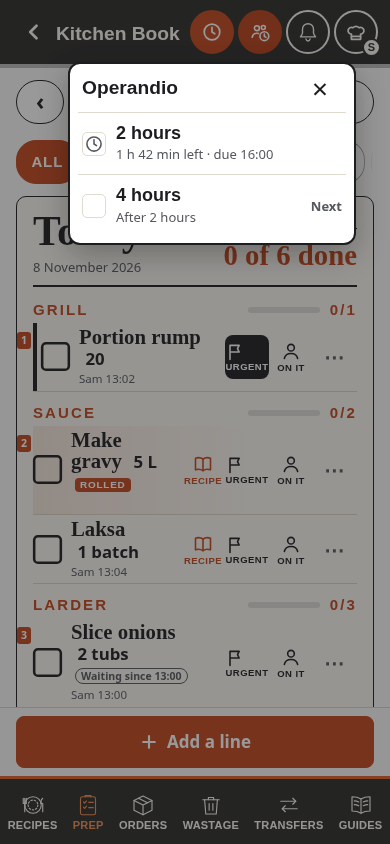
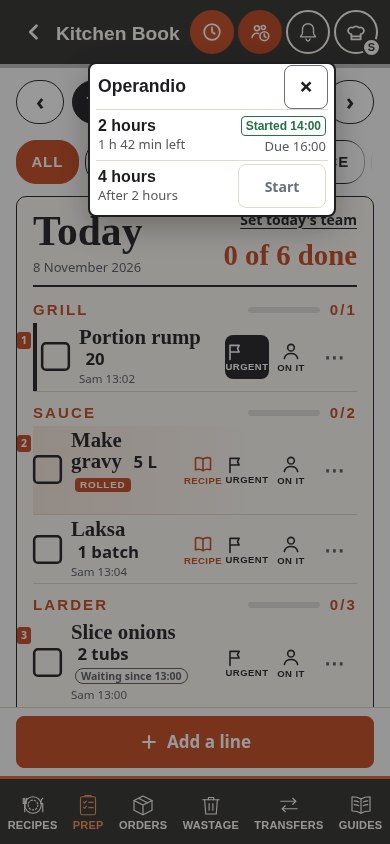
Clarify actions and status in the smaller Operandio menu

Changed region(s): [[0.1538, 0.0616, 0.9231, 0.3081]]

diff --git a/docs/operandio-cooling-options/preview.js b/docs/operandio-cooling-options/preview.js
@@ -8,6 +8,14 @@
   const check = '<span class="oc-check" aria-hidden="true">✓</span>';
   const labels = { idle:'Ready to start',first:'Stage 1 running',first_due:'Waiting for the next tick',second:'Stage 2 running',second_due:'Both timers finished' };
   let returnFocus = null;
+  const feedbackHours=stage==='first_due'?4:2;
+  let pending=q.get('feedback')==='pending'?feedbackHours:0;
+  let failedStage=q.get('feedback')==='error'?feedbackHours:0;
+  let justStarted=0;
+  let attempts=0;
+  const announce=document.createElement('div');
+  announce.className='oc-live';announce.setAttribute('role','status');announce.setAttribute('aria-live','polite');
+  document.body.appendChild(announce);
   document.title = 'Operandio cooling: design ' + design.toUpperCase();
   document.documentElement.classList.add('oc-demo');
   document.querySelectorAll('a').forEach(a => a.addEventListener('click', e => e.preventDefault()));
@@ -24,20 +32,55 @@
       (stage==='idle'?action('start1','Start 2 hours')+'<p class="oc-caption">Anyone in the kitchen can start it.</p>':stage==='first_due'?action('start2','Start 4 hours')+'<p class="oc-caption">Starts the next stage for everyone.</p>':stage==='second_due'?'<p class="oc-caption">Both elapsed-time pings have been sent.</p>'+action('reset','Start another batch',true):'<p class="oc-caption">Everyone sees the same timer. A second tick cannot restart it.</p>')+'</div>';
   }
   function close() { document.querySelector('.oc-modal')?.remove();document.documentElement.classList.remove('oc-sheet-open');document.querySelector('.oc-clock')?.setAttribute('aria-expanded','false');if(returnFocus?.isConnected)returnFocus.focus(); }
-  function openMenu() {
-    close();returnFocus=document.querySelector('.oc-clock');
+  function menuContent() {
     const firstDone=['first_due','second','second_due'].includes(stage);
-    const secondDone=stage==='second_due';
-    function row(hours,enabled,running,done,caption) {
-      return '<button type="button" class="oc-menu-row '+(enabled?'is-ready':'')+'" data-oc="start'+(hours===2?'1':'2')+'" '+(enabled?'':'disabled')+'><span class="oc-menu-tick" aria-hidden="true">'+(done?'✓':running?clock:'')+'</span><span class="oc-menu-label"><b>'+hours+' hours</b><small>'+caption+'</small></span><span class="oc-menu-state">'+(enabled?'Start':running?'':done?'Done':'Next')+'</span></button>';
+    function row(hours,ready,running,done,caption) {
+      const busy=pending===hours,error=failedStage===hours;
+      const id=hours===2?'1':'2';
+      const text=busy?'Starting…':error?'Try again':'Start';
+      const right=running?'<span class="oc-menu-status"><span class="lk-stamp">Started '+(hours===2?'14:00':'16:10')+'</span><small>Due '+(hours===2?'16:00':'20:10')+'</small></span>':done?'<span class="oc-menu-done">✓ Finished</span>':'<button type="button" class="btn '+(ready||busy?'dark ':'')+'oc-menu-start" data-oc="start'+id+'" aria-label="'+(busy?'Starting':error?'Try again: start':'Start')+' Operandio '+hours+'-hour timer" aria-describedby="oc-detail-'+id+'" '+(ready&&!pending?'':'disabled')+(busy?' aria-busy="true"':'')+'>'+text+'</button>';
+      return '<div class="oc-menu-entry" data-timer="'+hours+'" tabindex="-1"><div class="oc-menu-row"><span class="oc-menu-label"><b>'+hours+' hours</b><small id="oc-detail-'+id+'">'+(busy?'Waiting for confirmation':error?'Not started':caption)+'</small></span>'+right+'</div>'+(error?'<p class="p-err oc-menu-error" role="alert">Couldn’t start Operandio '+hours+'-hour timer.</p>':'')+'</div>';
     }
-    const wrap=document.createElement('div');wrap.className='wm-wrap oc-modal';
-    wrap.innerHTML='<div class="wm-bg" data-oc="close"></div><section class="oc-dropdown" role="dialog" aria-modal="true" aria-labelledby="oc-title" tabindex="-1"><header class="oc-menu-head"><h2 id="oc-title">Operandio</h2><button type="button" data-oc="close" class="oc-menu-close" aria-label="Close cooling timers">×</button></header>'+row(2,stage==='idle',stage==='first',firstDone,stage==='idle'?'Tick to start':stage==='first'?'1 h 42 min left · due 16:00':'Finished at 16:00')+row(4,stage==='first_due',stage==='second',secondDone,stage==='first_due'?'Tick to start':stage==='second'?'3 h 50 min left · due 20:10':secondDone?'Finished at 20:10':'After 2 hours')+(secondDone?'<footer class="oc-menu-foot">'+action('reset','Start another batch',true)+'</footer>':'')+'</section>';
-    document.body.appendChild(wrap);document.documentElement.classList.add('oc-sheet-open');
-    const chip=document.querySelector('.oc-clock'),rect=chip.getBoundingClientRect(),menu=wrap.querySelector('.oc-dropdown');
+    return row(2,stage==='idle',stage==='first',firstDone,stage==='idle'?'':stage==='first'?(justStarted===2?'2 h left':'1 h 42 min left'):'Finished at 16:00')+row(4,stage==='first_due',stage==='second',stage==='second_due',stage==='first_due'?'Ready to start':stage==='second'?(justStarted===4?'4 h left':'3 h 50 min left'):stage==='second_due'?'Finished at 20:10':'After 2 hours')+(stage==='second_due'?'<footer class="oc-menu-foot">'+action('reset','Start another batch',true)+'</footer>':'');
+  }
+  function placeMenu() {
+    const chip=document.querySelector('.oc-clock'),menu=document.querySelector('.oc-dropdown');
+    if(!menu)return;
+    const rect=chip.getBoundingClientRect();
     menu.style.top=Math.max(8,Math.min(rect.bottom+8,innerHeight-menu.offsetHeight-8))+'px';
     menu.style.left=Math.max(8,Math.min(innerWidth-menu.offsetWidth-8,rect.left+rect.width/2-menu.offsetWidth/2))+'px';
-    chip.setAttribute('aria-expanded','true');menu.focus();
+  }
+  function openMenu() {
+    close();returnFocus=document.querySelector('.oc-clock');
+    const wrap=document.createElement('div');wrap.className='wm-wrap oc-modal';
+    wrap.innerHTML='<div class="wm-bg" data-oc="close"></div><section class="oc-dropdown" role="dialog" aria-modal="true" aria-labelledby="oc-title" tabindex="-1"><header class="oc-menu-head"><h2 id="oc-title">Operandio</h2><button type="button" data-oc="close" class="btn oc-menu-close" aria-label="Close cooling timers">×</button></header><div class="oc-menu-content">'+menuContent()+'</div></section>';
+    document.body.appendChild(wrap);document.documentElement.classList.add('oc-sheet-open');
+    placeMenu();document.querySelector('.oc-clock').setAttribute('aria-expanded','true');wrap.querySelector('.oc-dropdown').focus();
+  }
+  function startPreview(hours) {
+    if(pending||(hours===2?stage!=='idle':stage!=='first_due'))return;
+    if(!document.querySelector('.oc-dropdown'))openMenu();
+    pending=hours;failedStage=0;attempts++;
+    const entry=document.querySelector('[data-timer="'+hours+'"]'),button=entry.querySelector('button');
+    // Update the existing button immediately. The delayed result is a local preview, never a server response.
+    button.textContent='Starting…';button.disabled=true;button.setAttribute('aria-busy','true');button.setAttribute('aria-label','Starting Operandio '+hours+'-hour timer');
+    entry.querySelector('small').textContent='Waiting for confirmation';entry.querySelector('.oc-menu-error')?.remove();
+    announce.textContent='Starting Operandio '+hours+'-hour timer. Waiting for confirmation.';
+    placeMenu();
+    if(q.get('result')==='hold')return;
+    setTimeout(()=>{
+      pending=0;
+      const error=q.get('result')==='fail'&&attempts===1;
+      if(error)failedStage=hours;
+      else{stage=hours===2?'first':'second';justStarted=hours;paintCard();}
+      const menu=document.querySelector('.oc-menu-content');
+      if(menu){
+        const hadFocus=menu.contains(document.activeElement);
+        menu.innerHTML=menuContent();placeMenu();
+        if(hadFocus)menu.querySelector(error?'[data-timer="'+hours+'"] button':'[data-timer="'+hours+'"]')?.focus({preventScroll:true});
+      }
+      announce.textContent=error?'Couldn’t start Operandio '+hours+'-hour timer. Try again.':'Started Operandio '+hours+'-hour timer. Due '+(hours===2?'16:00.':'20:10.');
+    },700);
   }
   function open(kind) {
     if(design==='d'&&kind!=='ping')return openMenu();
@@ -60,10 +103,11 @@
   paintCard();
   document.addEventListener('click',e=>{const a=e.target.closest('[data-oc]')?.dataset.oc;if(!a)return;
     if(a==='close')return close();if(a==='open')return open(design!=='d'&&stage.endsWith('due')?'ping':'timer');
-    if(a==='start1'&&stage==='idle'){stage='first';paintCard();if(design==='b')close();else open('timer');}
-    if(a==='start2'&&stage==='first_due'){stage='second';paintCard();if(design==='b')close();else open('timer');}
-    if(a==='reset'){stage='idle';paintCard();open('timer');}
+    if(a==='start1'&&stage==='idle'){if(design==='d')return startPreview(2);stage='first';paintCard();if(design==='b')close();else open('timer');}
+    if(a==='start2'&&stage==='first_due'){if(design==='d')return startPreview(4);stage='second';paintCard();if(design==='b')close();else open('timer');}
+    if(a==='reset'){pending=0;failedStage=0;justStarted=0;stage='idle';paintCard();open('timer');}
   });
-  document.addEventListener('keydown',e=>{const dialog=document.querySelector('.oc-modal');if(!dialog)return;if(e.key==='Escape'){e.preventDefault();close();}if(e.key==='Tab'){const f=[...dialog.querySelectorAll('button:not(:disabled)')];const first=f[0],last=f.at(-1);if(e.shiftKey&&(document.activeElement===first||document.activeElement===dialog.querySelector('[role=dialog]'))){e.preventDefault();last.focus();}else if(!e.shiftKey&&(document.activeElement===last||document.activeElement===dialog.querySelector('[role=dialog]'))){e.preventDefault();first.focus();}}});
+  document.addEventListener('keydown',e=>{const dialog=document.querySelector('.oc-modal');if(!dialog)return;if(e.key==='Escape'){e.preventDefault();close();}if(e.key==='Tab'){const f=[...dialog.querySelectorAll('button:not(:disabled)')];const first=f[0],last=f.at(-1);if(e.shiftKey&&(document.activeElement===first||!f.includes(document.activeElement))){e.preventDefault();last.focus();}else if(!e.shiftKey&&(document.activeElement===last||!f.includes(document.activeElement))){e.preventDefault();first.focus();}}});
+  window.addEventListener('resize',placeMenu);
   if(stage.endsWith('due')&&(design!=='d'||q.get('view')==='ping'))open('ping');else if(q.get('open')!=='0'&&design!=='b')open('timer');
 })();

diff --git a/docs/operandio-cooling-options/index.html b/docs/operandio-cooling-options/index.html
@@ -2,6 +2,6 @@
 <html lang="en-AU"><head><meta charset="utf-8"><meta name="viewport" content="width=device-width,initial-scale=1"><title>Operandio cooling: clock dropdown</title><link href="https://fonts.googleapis.com/css2?family=Barlow:wght@400;600;700&family=Barlow+Condensed:wght@700&display=swap" rel="stylesheet"><link rel="stylesheet" href="compare.css"></head>
 <body><main>
 <header class="intro"><p class="eyebrow">LEICHHARDT KITCHEN BOOK · SELECTED DESIGN</p><h1>A small clock. Two cooling timers.</h1><p class="lead">Operandio opens as a compact dropdown, with the same cream, charcoal and orange as the chef hat menu.</p></header>
-<nav class="states" aria-label="Preview stage"><span>Try it</span><button data-stage="idle" aria-pressed="true">Ready to start</button><button data-stage="first">2 hours running</button><button data-stage="first_due">4 hours available</button><button data-stage="second">4 hours running</button><button data-stage="second_due">Both finished</button><button data-stage="first_due" data-view="ping">2-hour ping</button><button data-stage="second_due" data-view="ping">4-hour ping</button></nav>
-<section class="chosen-layout"><iframe title="Selected Operandio clock dropdown interactive preview" data-design="d" src="preview.html?design=d&stage=idle"></iframe><div class="chosen-copy"><h2>One tick at a time.</h2><ol><li><b>Tick 2 hours.</b> Anyone in the kitchen can start it. Everyone sees the same countdown.</li><li><b>The first timer ends.</b> Everyone gets “Operandio batch cooling time 2 hours is done.” The 4-hour row becomes available.</li><li><b>Someone ticks 4 hours.</b> A further four hours starts from that tick. It does not start automatically.</li><li><b>The second timer ends.</b> Everyone gets “Operandio batch cooling time 4 hours is done.”</li></ol><h2>When the app is closed.</h2><p>The chosen design includes a timer saved on the server and a phone notification when each stage ends. Reopening the app shows the same deadline.</p><p>Each device needs notifications enabled. iPhone and iPad need the app added to the Home Screen. Phone settings and connectivity can delay or silence notifications.</p><p class="note">Clickable preview only. Times and people are examples. No real timer, account, notification permission or message is used. Background delivery still needs a server implementation and deployment. The recommended Firebase task queue requires a separate change from the recorded free-plan choice to billing-enabled Firebase; no plan has been changed.</p><p><a href="preview.html?design=d&stage=idle">Open the dropdown preview full size ↗</a></p><p><a href="comparison.html">Original three design ideas</a> · <a href="brief.md">Decision and checks</a></p></div></section>
+<nav class="states" aria-label="Preview stage"><span>Try it</span><button data-stage="idle" aria-pressed="true">Ready to start</button><button data-stage="idle" data-feedback="pending">Starting</button><button data-stage="idle" data-feedback="error">Couldn’t start</button><button data-stage="first">2 hours running</button><button data-stage="first_due">4 hours available</button><button data-stage="second">4 hours running</button><button data-stage="second_due">Both finished</button><button data-stage="first_due" data-view="ping">2-hour ping</button><button data-stage="second_due" data-view="ping">4-hour ping</button></nav>
+<section class="chosen-layout"><iframe title="Selected Operandio clock dropdown interactive preview" data-design="d" src="preview.html?design=d&stage=idle"></iframe><div class="chosen-copy"><h2>One tick at a time.</h2><ol><li><b>Tick 2 hours.</b> Anyone in the kitchen can start it. Everyone sees the same countdown.</li><li><b>The first timer ends.</b> Everyone gets “Operandio batch cooling time 2 hours is done.” The 4-hour row becomes available.</li><li><b>Someone ticks 4 hours.</b> A further four hours starts from that tick. It does not start automatically.</li><li><b>The second timer ends.</b> Everyone gets “Operandio batch cooling time 4 hours is done.”</li></ol><h2>When the app is closed.</h2><p>The chosen design includes a timer saved on the server and a phone notification when each stage ends. Reopening the app shows the same deadline.</p><p>Each device needs notifications enabled. iPhone and iPad need the app added to the Home Screen. Phone settings and connectivity can delay or silence notifications.</p><p class="note">Clickable preview only. Times and people are examples. Starts and acknowledgements are simulated locally. No real timer, account, notification permission or message is used. Background delivery still needs a server implementation and deployment. The recommended Firebase task queue requires a separate change from the recorded free-plan choice to billing-enabled Firebase; no plan has been changed.</p><p><a href="preview.html?design=d&stage=idle">Open the dropdown preview full size ↗</a></p><p><a href="comparison.html">Original three design ideas</a> · <a href="brief.md">Decision and checks</a></p></div></section>
 </main><script src="compare.js"></script></body></html>

diff --git a/docs/operandio-cooling-options/preview.css b/docs/operandio-cooling-options/preview.css
@@ -60,28 +60,27 @@ html.oc-sheet-open, html.oc-sheet-open body { overflow: hidden; }
 .oc-mini-steps b, .oc-mini-steps small { display: block; }
 .oc-mini-steps small { margin-top: 4px; color: var(--muted); font-size: .8rem; }
 
-/* Selected refinement: a compact menu under the clock, using the chef hat's row style. */
+/* Selected refinement: standard action buttons, separate read-only timing status. */
 .oc-clock[aria-expanded="true"] { background: var(--accent-ink); border-color: var(--accent-ink); color: var(--paper); }
-.oc-dropdown { position: absolute; width: min(288px,calc(100vw - 16px)); max-height: calc(100dvh - 16px); overflow-y: auto; padding: 2px 8px 6px; background: var(--paper); color: var(--ink); border: 2px solid var(--ink); border-radius: 12px; box-shadow: 0 10px 30px #0004; font-family: var(--body); }
-.oc-menu-head { display: flex; align-items: center; justify-content: space-between; padding: 0 4px 2px; border-bottom: 1px solid var(--line); }
-.oc-menu-head h2 { margin: 0; font: 700 1.2rem/1.1 var(--display); }
-.oc-menu-close { display: grid; place-items: center; width: 44px; height: 44px; border: 0; border-radius: 8px; background: transparent; color: var(--ink); font-size: 28px; cursor: pointer; }
-.oc-menu-row { width: 100%; display: flex; align-items: center; gap: 10px; min-height: 62px; border: 0; border-bottom: 1px solid var(--line); background: none; color: var(--ink); font: inherit; text-align: left; padding: 9px 4px; }
-.oc-menu-row.is-ready { cursor: pointer; }
-.oc-menu-row:disabled { opacity: 1; }
-.oc-menu-row:disabled .oc-menu-tick { color: var(--muted); border-color: var(--line); }
-.oc-menu-row.is-ready .oc-menu-tick { border-color: var(--accent-ink); color: var(--accent-ink); }
-.oc-menu-row.is-ready .oc-menu-state { color: var(--accent-ink); }
-.oc-menu-row:focus-visible, .oc-menu-close:focus-visible { outline: 2px solid var(--accent-ink); outline-offset: -2px; background: var(--hit); }
-.oc-menu-row.is-ready:hover, .oc-menu-close:hover { background: var(--hit); }
-.oc-menu-tick { display: grid; place-items: center; flex: 0 0 24px; width: 24px; height: 24px; border: 1.5px solid var(--ink); border-radius: 5px; font-weight: 700; }
-.oc-menu-tick svg { width: 20px; height: 20px; }
-.oc-menu-label { display: flex; flex-direction: column; gap: 3px; min-width: 0; }
-.oc-menu-label b { font: 700 1.125rem/1.1 var(--display); }
-.oc-menu-label small { color: var(--muted); font-size: .8125rem; line-height: 1.3; }
-.oc-menu-state { margin-left: auto; font-size: .8125rem; font-weight: 700; color: var(--muted); }
-.oc-menu-foot { padding: 6px 4px 0; color: var(--muted); font-size: .8125rem; line-height: 1.4; }
-.oc-dropdown:focus { outline: none; }
-
-.oc-menu-row:last-child { border-bottom: 0; }
-.oc-menu-state:empty { display: none; }
+.oc-dropdown { position: absolute; width: min(248px,calc(100vw - 16px)); max-height: calc(100dvh - 16px); overflow-y: auto; padding: 0 6px 4px; background: var(--paper); color: var(--ink); border: 2px solid var(--ink); border-radius: var(--r-act); box-shadow: 0 10px 30px #0004; font-family: var(--body); }
+.oc-menu-head { display: flex; align-items: center; justify-content: space-between; min-height: 46px; padding: 0 2px; border-bottom: 1px solid var(--line); }
+.oc-menu-head h2 { margin: 0; font: 700 1.1rem/1.1 var(--display); }
+.oc-menu-close.btn { width: 44px; min-height: 44px; padding: 0; margin-right: -2px; font-size: 24px; border-color: var(--faint); }
+.oc-menu-entry { border-bottom: 1px solid var(--line); }
+.oc-menu-entry:last-child { border-bottom: 0; }
+.oc-menu-row { display: flex; align-items: center; justify-content: space-between; gap: 6px; min-height: 50px; padding: 3px 2px; }
+.oc-menu-label { display: flex; flex-direction: column; gap: 2px; min-width: 0; }
+.oc-menu-label b { font: 700 1rem/1.1 var(--display); }
+.oc-menu-label small, .oc-menu-status small { color: var(--muted); font-size: .8125rem; line-height: 1.2; }
+.oc-menu-label small:empty { display: none; }
+.oc-menu-start.btn { flex: 0 0 88px; width: 88px; min-height: 44px; padding: 0 4px; font: 700 .875rem var(--body); }
+.oc-menu-start.btn[aria-busy="true"] { background: var(--accent-ink); border-color: var(--accent-ink); color: var(--bar-text); cursor: wait; }
+.oc-menu-start:focus-visible, .oc-menu-close:focus-visible { outline: 2px solid var(--ink); outline-offset: 2px; }
+.oc-menu-status { display: flex; flex: 0 0 auto; flex-direction: column; align-items: flex-end; gap: 3px; }
+.oc-menu-status .lk-stamp { margin: 0; padding: 0 4px; min-height: 20px; font-size: .75rem; letter-spacing: 0; text-transform: none; }
+.oc-menu-done { color: var(--done-ink); font-size: .8125rem; font-weight: 700; }
+.oc-menu-error { padding: 0 2px 6px; font-size: .875rem; line-height: 1.25; }
+.oc-menu-foot { padding: 4px 2px 0; }
+.oc-menu-foot .oc-action { min-height: 44px; padding: 0 8px; font-size: .875rem; }
+.oc-dropdown:focus, .oc-menu-entry:focus { outline: none; }
+.oc-live { position: absolute; width: 1px; height: 1px; overflow: hidden; clip-path: inset(50%); white-space: nowrap; }

diff --git a/docs/operandio-cooling-options/compare.js b/docs/operandio-cooling-options/compare.js
@@ -1,5 +1,5 @@
 document.addEventListener('click', function (e) {
   const button=e.target.closest('[data-stage]'); if(!button)return;
   document.querySelectorAll('[data-stage]').forEach(x=>x.setAttribute('aria-pressed',String(x===button)));
-  document.querySelectorAll('iframe[data-design]').forEach(x=>x.src='preview.html?design='+x.dataset.design+'&stage='+button.dataset.stage+(button.dataset.view?'&view='+button.dataset.view:''));
+  document.querySelectorAll('iframe[data-design]').forEach(x=>x.src='preview.html?design='+x.dataset.design+'&stage='+button.dataset.stage+(button.dataset.view?'&view='+button.dataset.view:'')+(button.dataset.feedback?'&feedback='+button.dataset.feedback:''));
 });

diff --git a/docs/operandio-cooling-options/brief.md b/docs/operandio-cooling-options/brief.md
@@ -8,22 +8,44 @@ The owner asks for a timer like a shift ping, which everyone can start. The name
 
 The mock example starts at 14:00, pings at 16:00, waits until someone ticks at 16:10, and pings again at 20:10. Got it closes only that person's message. It does not start another stage or silence anyone else. A duplicate start cannot reset a shared deadline.
 
-[Try the chosen dropdown](index.html). The stage buttons show the disabled second row, both countdowns, the enabled second stage and both pings. No messages are sent, no account is used and no real timer runs. [Original three options](comparison.html) remain as the review record.
+[Try the chosen dropdown](index.html). The stage buttons show the disabled second Start button, both countdowns, the enabled second stage and both pings. No messages are sent, no account is used and no real timer runs. [Original three options](comparison.html) remain as the review record.
 
 ## Chosen refinement
 
 The owner's next request selects a clock dropdown in the chef hat's style. This supersedes the council's recommendation of C below. It uses the chef hat's cream panel, charcoal border and compact rows, anchored below the clock at phone, tablet and desktop widths. The existing chef hat itself becomes a bottom sheet on phones; this two-row preview stays a dropdown, as requested.
 
 - **Operandio** is the single-line heading, with a 44 px close button.
-- **2 hours** is clickable first. While running it shows time left and its deadline.
-- **4 hours** is disabled with “After 2 hours”. After the first deadline it becomes clickable with “Tick to start”. It never starts itself.
-- Both rows remain visible. A running or completed row cannot be restarted by another tick.
+- **2 hours** has the first available Start button. While running it shows time left, a green Started stamp and its deadline.
+- **4 hours** has a disabled Start button with “After 2 hours”. After the first deadline its Start button becomes available. It never starts itself.
+- Both rows remain visible. Running and completed rows are read-only status, with no button or checkbox treatment.
 - The same shift-style pings appear at both deadlines. Got it remains personal.
 - The clock and a timer row take two taps to start from Prep. Closing the dropdown takes one more tap. Existing Prep actions stay one tap, and the closed menu uses no list space.
 
-The owner then asked for a smaller dropdown so more of the page stays visible. The ready and running panels now measure **288 × 183 px**, down from **360 × 297 px** on the 390 px phone: about 51% less panel area. Both rows remain 62 px high, and the close target remains 44 px. The extra subtitle and explanatory footer are removed; the completed state alone adds Start another batch and measures 288 × 239 px. The menu is centred under the clock and clamped inside the viewport.
+The owner asked twice for a smaller dropdown, then explicitly asked for visibly touchable controls and the repository's active-button and event-status guidelines. The current ready and running panels measure **248 × 155 px**, down from the preceding **288 × 183 px**, and the original **360 × 297 px**. That is about 27% less area than the last preview and 64% less than the first. The close and Start buttons retain at least 44 × 44 px targets; ready-state rows are 50 px high. The completed state adds Start another batch and measures 248 × 204 px. Pending and error states grow to keep their words readable: pending 162 px high (174 px with Extra large text), failure 196 px (211 px with Extra large text), measured at 390 px. The menu stays centred under the clock and clamped inside the viewport.
 
-Quick refinement check: no new controls or steps, no changed timing or access, and no new reads. Start remains two taps from Prep. Closed-menu list measurements remain the baseline. All five states were exercised at 390, 768 and 1280 px with no overflow; captions fit without clipping on the phone.
+Quick refinement check: same start sequence and tap count, no new operational permissions or reads. Start remains two taps from Prep. Closed-menu list space is unchanged. All five states were exercised at 320, 390, 768 and 1280 px with Normal and Extra large text. Buttons retain minimum targets and captions fit without clipping. These are preview checks, not verification of the backend.
+
+### Action and status treatment
+
+This follows [After the tap](../action-feedback.md), [design patterns](../design-patterns.md) and [loading and motion](../loading-motion.md), as required by AGENTS.md and CLAUDE.md. The preview reuses `.btn.dark`, `.btn:disabled`, `.lk-stamp`, `.p-err` and the app's shared active feedback. It does not copy the production write helpers or create real writes.
+
+- **Ready:** a filled, labelled Start button, with action corners, keyboard focus and existing press feedback. The timer name is outside the button. Commands do not use `aria-pressed`.
+- **Unavailable:** a disabled outlined Start with faint words, a light edge and “After 2 hours”. Its appearance differs from pending.
+- **Pending:** the same button immediately says Starting… and gains `aria-busy`, keeps its width and prevents another submission. The adjacent words say Waiting for confirmation. No green stamp appears yet.
+- **Confirmed:** after the local simulated response, the row shows time left and a green outlined Started stamp plus its deadline. An announcement names the Operandio 2-hour or 4-hour timer. The old Start button goes away and the menu stays open.
+- **Failed:** a red persistent message names the timer and says it could not start, with `role="alert"` and a Try again button. Nothing starts. Retrying clears the old failure and returns to pending.
+- **Finished:** green check plus Finished, without pretending the elapsed timer is an actionable button.
+
+| Feedback question | Preview answer and production requirement |
+| --- | --- |
+| What changes in the tap's own frame? | Start changes in place to Starting…, keeps its width, and disables repeat submission. |
+| What confirms the result? | A local simulated acknowledgement shows Started 14:00 or Started 16:10 beside that timer; an accessible announcement names Operandio and the duration. Production must wait for the accepted server start. |
+| What happens to the old words? | Start, pending words and any previous failure disappear after acknowledgement. Running status and the start stamp replace them. |
+| Where is the person afterwards? | In the same open dropdown. If keyboard focus was on Start, it moves to the resulting row, with no scrolling. |
+| What happens on failure? | The timer remains unstarted. A named red error and Try again remain until retry or dismissal; no work is lost. |
+| Can it be undone? | A shared accepted stage has no Undo in this design. This preserves the confirmed immutable deadline; cancellation is outside the requested workflow. |
+
+Close dismisses the menu and returns focus to the clock. Start another batch is explicit after both stages finish and returns the local preview to ready. The prototype's stage selector now also exposes Starting and Couldn’t start. `result=hold` and `result=fail` are local demo modes for checking pending and failure; none contact a server.
 
 Closed-app delivery is now part of the requested feature. Canonical server deadlines preserve the timer, and a scheduled sender plus device push provides notifications without an app window. Existing order push registration is chef-only and its ten-minute GitHub job is not a punctual alarm. Extend cooling opt-in to current kitchen staff separately from supplier reminders. Each device needs notification permission; iPhone/iPad needs the Home Screen app. OS settings and connectivity still govern arrival and sound.
 
@@ -88,9 +110,9 @@ The [technical note](technical-notes.md) records source-backed constraints, the 
 
 The prototype uses a script-free snapshot of the current synthetic Prep page plus its own preview script. It does not load Firebase, service workers or app scripts. The examples were rendered at 390, 768 and 1280 px; both ping messages and the manual Start 4 hours transition were exercised. The stage-two example correctly says started 16:10 and due 20:10. No application tests or rules changes are needed for these docs-only prototypes. JavaScript syntax and whitespace checks pass.
 
-Dropdown checks exercised all five states at 390, 768 and 1280 px, the two starts, both ping messages, personal Got it, Escape, backdrop close and return focus. The disabled row stayed disabled until the first stage ended. The dropdown fits every viewport without horizontal overflow or JavaScript errors. With the menu closed, measured header height, first-row position and full visible rows match the baseline: 390 px: 64 / 323 / 4; 768 px: 96 / 385.90625 / 6; 1280 px: 96 / 327.109375 / 4. The stage selector in the comparison page also switches correctly between the dropdown and both pings. These are mocked browser checks, not delivery tests.
+Dropdown checks exercised all five states at 390, 768 and 1280 px, the two starts, both ping messages, personal Got it, Escape, backdrop close and return focus. The unavailable Start button stayed disabled until the first stage ended. The dropdown fits every viewport without horizontal overflow or JavaScript errors. With the menu closed, measured header height, first-row position and full visible rows match the baseline: 390 px: 64 / 323 / 4; 768 px: 96 / 385.90625 / 6; 1280 px: 96 / 327.109375 / 4. The stage selector in the comparison page also switches correctly between the dropdown and both pings. These are mocked browser checks, not delivery tests.
 
-Chosen preview: [overview](dropdown-overview.png), [ready](dropdown-idle-390.png), [first countdown](dropdown-first-390.png), [second stage available](dropdown-first_due-390.png), [tablet](dropdown-idle-768.png), [desktop](dropdown-idle-1280.png).
+Chosen preview: [overview](dropdown-overview.png), [pending](dropdown-pending-390.png), [failure](dropdown-error-390.png), [ready](dropdown-idle-390.png), [first countdown](dropdown-first-390.png), [second stage available](dropdown-first_due-390.png), [tablet](dropdown-idle-768.png), [desktop](dropdown-idle-1280.png).
 
 Original screenshots: [comparison](comparison.png), [first ping](ping-2h-390.png), [second ping](ping-4h-390.png), [running stage](running-390.png). The screenshots are design evidence, not proof of shared delivery, permissions or real deadlines.
 

diff --git a/docs/head-chef-decisions.md b/docs/head-chef-decisions.md
@@ -1,6 +1,6 @@
 # Head chef decisions
 
-- **8 November 2026, design shared Operandio cooling pings.** The head chef asked for design ideas for a cooling timer that anyone in the kitchen can start and everyone receives as a shift-style ping. Clarifications: always use Operandio; the first tick starts 2 hours; after its ping, someone must tick again to start a further 4 hours, followed by another ping. Got it is personal in the proposals. After the three designs, the head chef selected a small clock dropdown in the chef hat style, with 2 hours clickable first and 4 hours enabled after the first timer ends, and asked for it to keep running with the app closed. The head chef then asked for a more compact dropdown; the preview removes the subtitle and explanatory footer and keeps two 62 px timer rows in a 288 × 183 px panel. The updated preview records that choice. Shared state, background delivery and any required billing change are not deployed. See [the chosen dropdown and delivery plan](operandio-cooling-options/brief.md).
+- **8 November 2026, design shared Operandio cooling pings.** The head chef asked for design ideas for a cooling timer that anyone in the kitchen can start and everyone receives as a shift-style ping. Clarifications: always use Operandio; the first tick starts 2 hours; after its ping, someone must tick again to start a further 4 hours, followed by another ping. Got it is personal in the proposals. After the three designs, the head chef selected a small clock dropdown in the chef hat style, with 2 hours clickable first and 4 hours enabled after the first timer ends, and asked for it to keep running with the app closed. The head chef then asked for a more compact dropdown; the preview removes the subtitle and explanatory footer. A further request for smaller size and the repository’s active-button/status guidance makes it 248 × 155 px, with standard Start buttons, minimum 44 px targets and separate pending, confirmed and failure states. The updated preview records that choice. Shared state, background delivery and any required billing change are not deployed. See [the chosen dropdown and delivery plan](operandio-cooling-options/brief.md).
 
 - **8 November 2026, a Head chef / Sous chef panel like the real admin panel.** The owner clarified the requested design after the three examples: inspect how the admin account's panel is implemented and give Head chef and Sous chef a similar panel. Reuse the actual admin shell with Today, Reports, Team and Kitchen, its responsive rail, tabs and Find. Open it with the current personal chef PIN and canonical role; retain the existing service shortcuts. Working chef editors and registers belong inside the panel, with the current permissions. No wider owner-only access is implied. See [the chef panel brief](chef-panel-options/brief.md).
 

diff --git a/README.md b/README.md
@@ -34,7 +34,7 @@ Guides includes a Food safety guide for everyone with access to that page. It re
 
 This guide is bundled with the book, searchable and readable without extra Firestore reads or writes. It stays outside the uploaded-guide editor. Existing page access and feature switches still apply. The on-screen guide is available from the saved app with no signal; the PDF needs opening once while connected before it is cached. Revert this change to remove the bundled guide; uploaded guides stay intact.
 
-The [Operandio cooling preview](docs/operandio-cooling-options/index.html) (8 November 2026) shows the chosen compact clock dropdown in the chef hat style, reduced to 288 × 183 px for the ready and running states. Anyone can start 2 hours; the 4-hour row becomes clickable when it ends, and starts only on another tick. Everyone gets a ping at each deadline. Closed-app operation is requested and needs server timing plus device push; the recommended backend requires a billing decision beyond the recorded free-plan choice. This is a clickable preview, not a released timer. [Brief and delivery plan](docs/operandio-cooling-options/brief.md).
+The [Operandio cooling preview](docs/operandio-cooling-options/index.html) (8 November 2026) shows the chosen compact clock dropdown in the chef hat style, reduced to 248 × 155 px for the ready and running states, with standard Start buttons and distinct pending, confirmed and failure states. Anyone can start 2 hours; the 4-hour row becomes clickable when it ends, and starts only on another tick. Everyone gets a ping at each deadline. Closed-app operation is requested and needs server timing plus device push; the recommended backend requires a billing decision beyond the recorded free-plan choice. This is a clickable preview, not a released timer. [Brief and delivery plan](docs/operandio-cooling-options/brief.md).
 
 ## What it does
 
